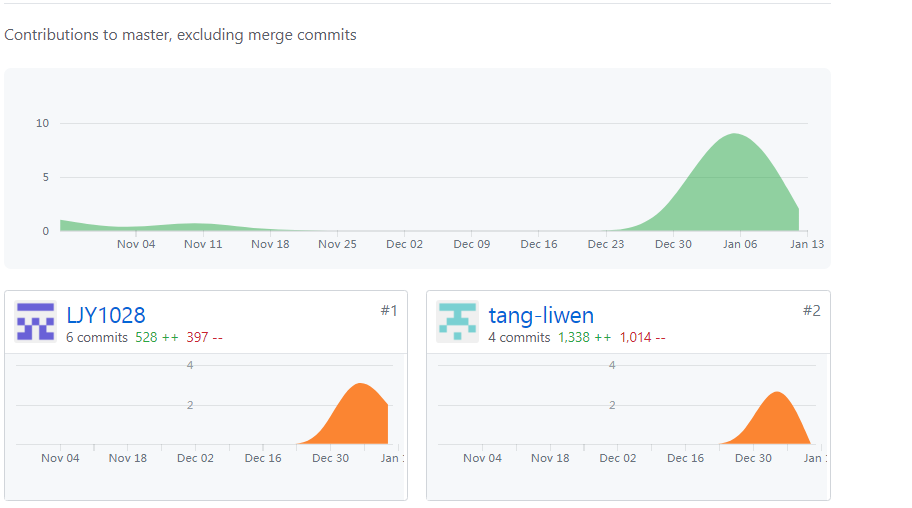
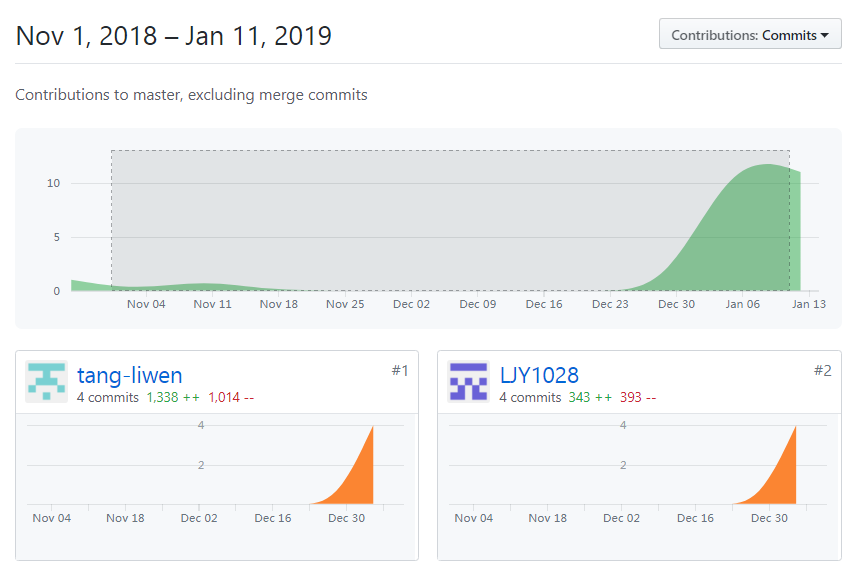
修改

diff --git a/doc/龙晶毅_10164507119_finalreport.md b/doc/龙晶毅_10164507119_finalreport.md
@@ -341,7 +341,7 @@ nav a.active {
 
  
 
->  **龙晶毅/10164507119/6 commits / 528 ++ / 397 --/**  
+>  **龙晶毅/10164507119/4 commits / 343 ++ / 393 --/**  
 
 
 # 我的自评
